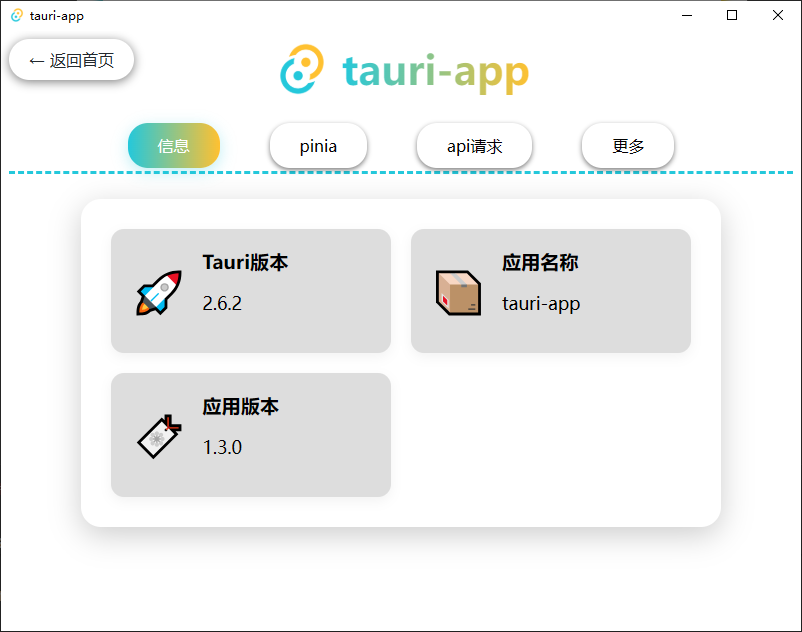
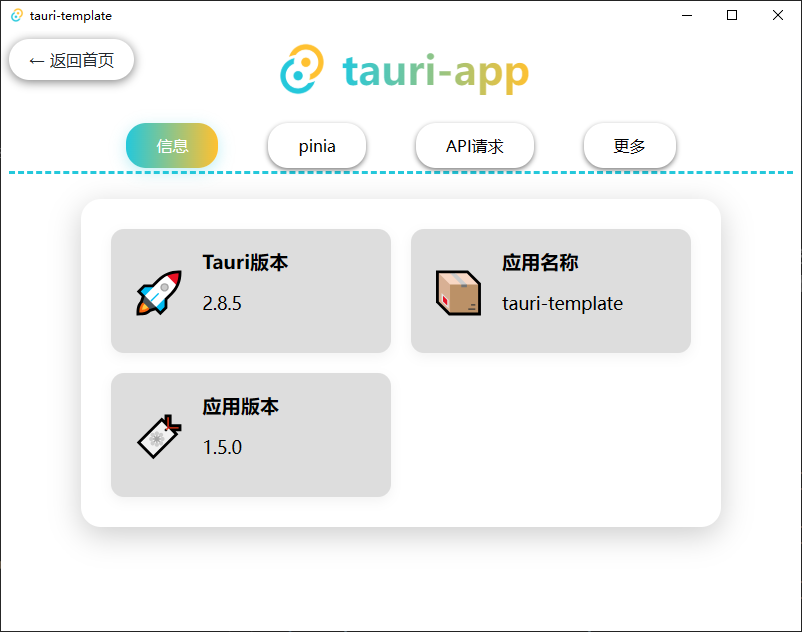
chore(tauri):  发布 v1.5.0 版本

diff --git a/src/router/index.ts b/src/router/index.ts
@@ -27,8 +27,7 @@ const router = createRouter({
         { path: 'backend', name: 'backend-request', component: BackendRequest },
       ],
     },
-    // { path: '/', redirect: '/home' }  // 重定向
-    { path: '/', redirect: '/request' }  // 重定向
+    { path: '/', redirect: '/home' }  // 重定向
   ]
 })
 

diff --git a/src/components/buttons/button_click.vue b/src/components/buttons/button_click.vue
@@ -8,7 +8,7 @@
 
 <script setup lang="ts">
   defineOptions({name: 'button_click'})
-  import { defineProps, withDefaults, computed } from 'vue'
+  import { computed } from 'vue'
 
   // 定义props类型
   interface Props {

diff --git a/src/pages/request/index.vue b/src/pages/request/index.vue
@@ -17,6 +17,7 @@
 
   const route = useRoute()
   const router = useRouter()
+  // 控制显示隐藏
   const isBaseRequestPath = computed(() => route.path === '/request')
 
   const goToFrontendRequest = () => {

diff --git a/README.md b/README.md
@@ -144,6 +144,17 @@ Tauri-Template
     <th style="text-align:center; border:3px solid #008249ff; padding:5px 16px;">发布日期</th>
     <th style="text-align:center; border:3px solid #008249ff; padding:5px 16px;">更新内容</th>
   </tr>
+  <!-- v1.5.0 -->
+  <tr>
+    <td style="text-align:center; border:3px solid #008249ff;">v1.5.0</td>
+    <td style="text-align:center; border:3px solid #008249ff;">2025-10-02</td>
+    <td style="border:3px solid #008249ff;">
+      <ul style="margin:0 0 0 20px; padding:0;">
+        <li>添加后端api请求示例代码</li>
+        <li>添加请求后端api示例页面</li>
+      </ul>
+    </td>
+  </tr>
   <!-- v1.4.0 -->
   <tr>
     <td style="text-align:center; border:3px solid #008249ff;">v1.4.0</td>
